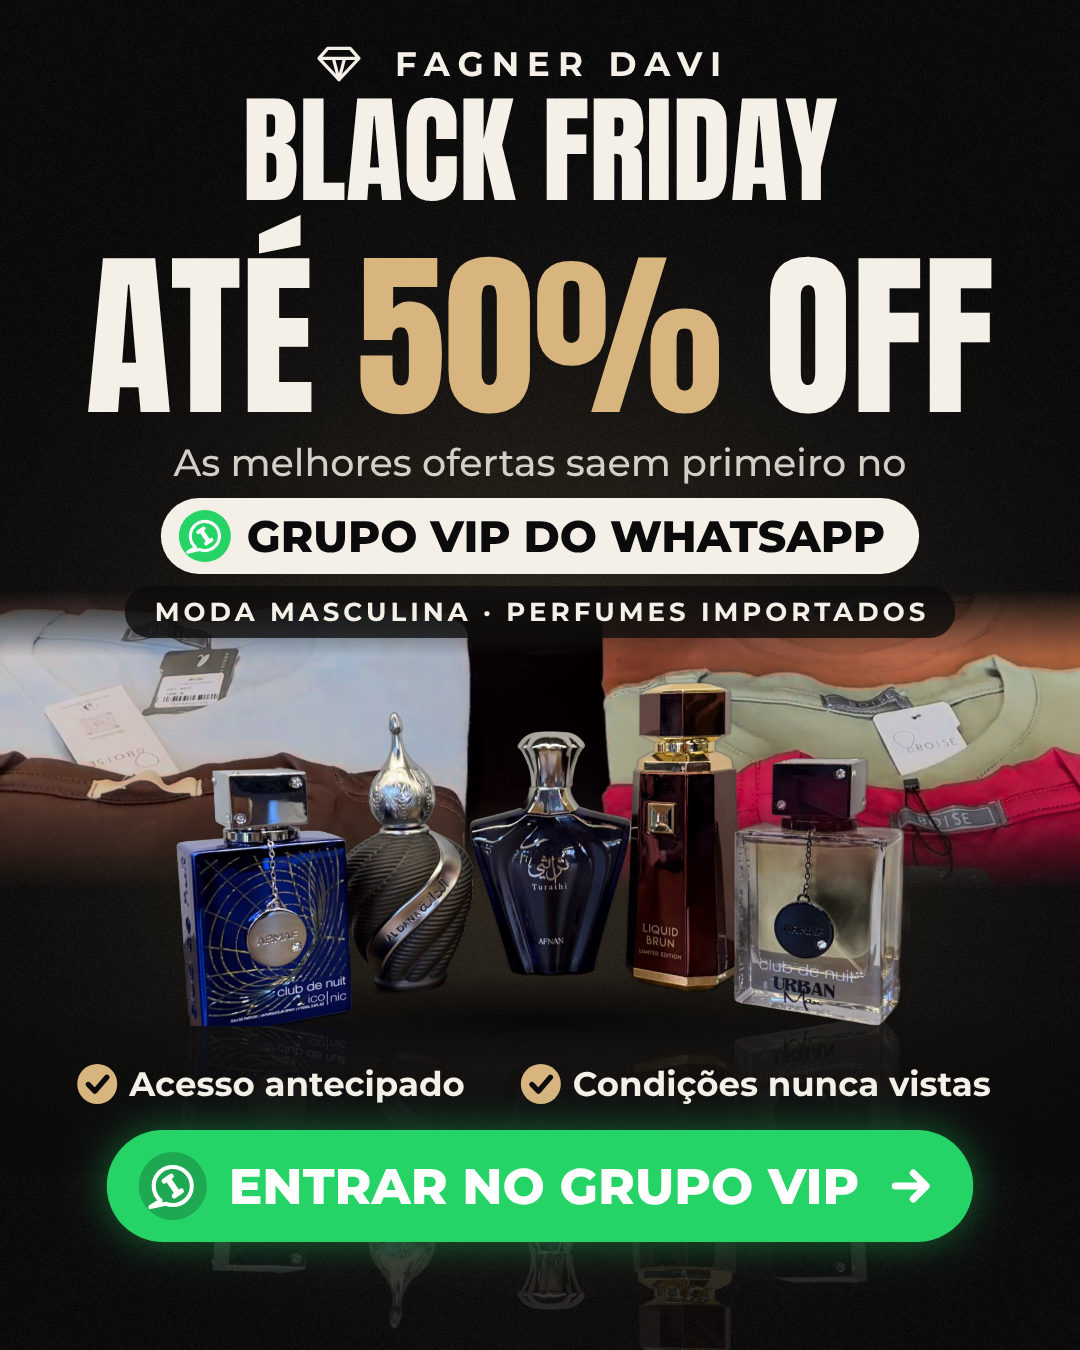
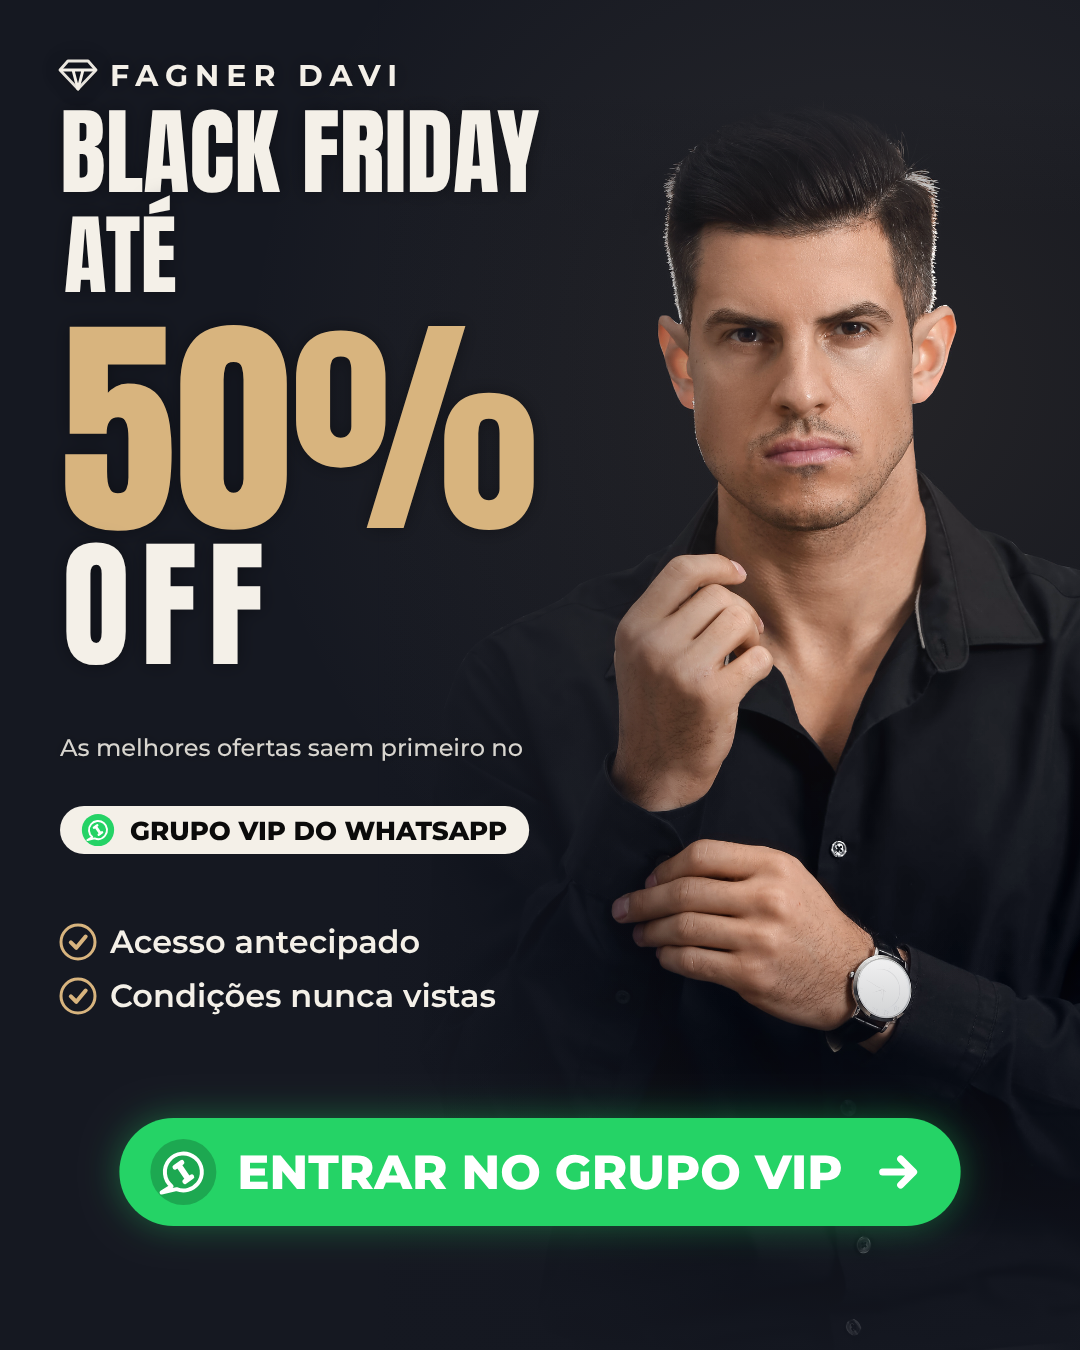
Fagner Davi statics: replace product photos with an Adobe Stock model shot
The product cut-outs didn't land, so the statics now pair a typographic
column (BLACK FRIDAY / ATÉ 50% OFF / Grupo VIP do WhatsApp) with a free
Adobe Stock portrait (482748750) on the photo's own navy-black backdrop.
Story copy and CTA stay inside the 270px top / 380px bottom safe area.

Claude-Session: https://claude.ai/code/session_01AyZZy3A3dWJLr1xUPXjTqW

diff --git a/fagner-davi/static.html b/fagner-davi/static.html
@@ -13,32 +13,35 @@ html, body { margin: 0; background: #000; } canvas { display: block; }
 <canvas id="c"></canvas>
 <script>
 // Static ads for the Grupo VIP Black Friday capture — feed 4:5 (1080x1350) and story 9:16 (1080x1920).
-// Palette follows the brand's own Black Friday warm-up post ("ESQUENTA": black & white, condensed type) plus the
-// sand tone of the store's BOISE tees. Products are real: BOISE tees from the store table, imported perfumes from the feed.
+// Typographic column on the left, model on the right (Adobe Stock 482748750, free licence). The canvas uses the photo's
+// own backdrop colour so the picture dissolves into the layout; type follows the brand's Black Friday warm-up post
+// (condensed, off-white) with a sand accent.
 // ?fmt=feed|story   &guides=1 draws the safe zones (review only, never for upload)
 const q = new URLSearchParams(location.search);
 const FMT = q.get('fmt') || 'feed', GUIDES = q.get('guides') === '1';
 const W = 1080, H = FMT === 'story' ? 1920 : 1350;
 const c = document.getElementById('c'); c.width = W; c.height = H;
 const ctx = c.getContext('2d');
-const BLK = '#0B0B0B', OFF = '#F4F0E8', SAND = '#D8B47E', WA = '#25D366';
+const BG = '#151821', OFF = '#F4F0E8', SAND = '#D8B47E', WA = '#25D366';
 // story: Meta keeps ~14% top / ~20% bottom under the profile row and the CTA; feed: plain margins
 const SAFE = FMT === 'story' ? { top: 270, bottom: 1920 - 380, side: 64 } : { top: 56, bottom: 1350 - 56, side: 60 };
+const X0 = SAFE.side, COL = FMT === 'story' ? 470 : 480;   // left text column
 
-// baselines / centers in px; band = [top, height], perf = [top, width]
+// photo: [top, height, face-centre x]; type baselines in px
 const L = FMT === 'story' ? {
-  brand: 318, black: 470, blackPx: 150, off: 690, offPx: 240, sub: 790,
-  band: [895, 330], perf: [950, 800], tag: 925, checks: 1410, cta: 1484,
+  photo: [330, 1590, 800], brand: 322, black: 438, blackPx: 104,
+  ate: 548, ateMax: 100, pct: 806, pctPx: 290, off: 952, offPx: 160,
+  sub: 1048, pill: 1142, checks: [1252, 1308], cta: 1464,
 } : {
-  brand: 76, black: 200, blackPx: 118, off: 412, offPx: 184, sub: 476,
-  band: [590, 300], perf: [645, 740], tag: 612, checks: 1084, cta: 1186,
+  photo: [96, 1290, 800], brand: 86, black: 192, blackPx: 96,
+  ate: 292, ateMax: 88, pct: 528, pctPx: 266, off: 664, offPx: 140,
+  sub: 756, pill: 830, checks: [942, 996], cta: 1172,
 };
 
 const load = src => new Promise((res, rej) => { const i = new Image(); i.onload = () => res(i); i.onerror = rej; i.src = src; });
-
 function font(w, px, fam = 'Montserrat') { ctx.font = `${w} ${px}px ${fam}`; }
 function box(x, y, w, h, r, fill) { ctx.fillStyle = fill; ctx.beginPath(); ctx.roundRect(x, y, w, h, r); ctx.fill(); }
-function fitText(txt, maxW, px, w, fam) { font(w, px, fam); const m = ctx.measureText(txt).width; return m > maxW ? Math.floor(px * maxW / m) : px; }
+function fit(txt, maxW, px, w, fam) { font(w, px, fam); const m = ctx.measureText(txt).width; if (m > maxW) { px = Math.floor(px * maxW / m); font(w, px, fam); } return px; }
 function diamond(cx, cy, w, col) {
   const h = w * 0.78;
   ctx.save(); ctx.strokeStyle = col; ctx.lineWidth = w * 0.08; ctx.lineJoin = 'round';
@@ -61,117 +64,86 @@ function waIcon(cx, cy, r, bg) {
   ctx.restore(); ctx.restore();
 }
 function check(cx, cy, r) {
-  ctx.fillStyle = SAND; ctx.beginPath(); ctx.arc(cx, cy, r, 0, Math.PI * 2); ctx.fill();
-  ctx.strokeStyle = BLK; ctx.lineWidth = r * 0.26; ctx.lineCap = 'round'; ctx.lineJoin = 'round';
-  ctx.beginPath(); ctx.moveTo(cx - r * 0.45, cy + r * 0.02); ctx.lineTo(cx - r * 0.12, cy + r * 0.36); ctx.lineTo(cx + r * 0.48, cy - r * 0.34); ctx.stroke();
+  ctx.strokeStyle = SAND; ctx.lineWidth = 3; ctx.beginPath(); ctx.arc(cx, cy, r, 0, Math.PI * 2); ctx.stroke();
+  ctx.lineWidth = r * 0.24; ctx.lineCap = 'round'; ctx.lineJoin = 'round';
+  ctx.beginPath(); ctx.moveTo(cx - r * 0.42, cy + r * 0.02); ctx.lineTo(cx - r * 0.1, cy + r * 0.34); ctx.lineTo(cx + r * 0.45, cy - r * 0.32); ctx.stroke();
 }
 
-function background() {
-  ctx.fillStyle = BLK; ctx.fillRect(0, 0, W, H);
-  // soft spotlight behind the products
-  const cy = L.perf[0] + 120;
-  const g = ctx.createRadialGradient(W / 2, cy, 40, W / 2, cy, 760);
-  g.addColorStop(0, 'rgba(216,180,126,0.20)'); g.addColorStop(0.5, 'rgba(216,180,126,0.06)'); g.addColorStop(1, 'rgba(0,0,0,0)');
-  ctx.fillStyle = g; ctx.fillRect(0, 0, W, H);
-  // fine film grain so the black doesn't band
-  const img = ctx.getImageData(0, 0, W, H), d = img.data;
-  let s = 7; const rnd = () => (s = (s * 16807) % 2147483647) / 2147483647;
-  for (let i = 0; i < d.length; i += 4) { const n = (rnd() - 0.5) * 10; d[i] += n; d[i + 1] += n; d[i + 2] += n; }
-  ctx.putImageData(img, 0, 0);
+function backgroundAndPhoto(photo) {
+  ctx.fillStyle = BG; ctx.fillRect(0, 0, W, H);
+  const [top, ph, faceX] = L.photo;
+  const pw = ph * photo.width / photo.height;
+  const x = faceX - pw * 0.49;
+  ctx.filter = 'contrast(1.04) saturate(0.92)';
+  ctx.drawImage(photo, x, top, pw, ph);
+  ctx.filter = 'none';
+  // dissolve the photo edges into the backdrop: top, left (under the type) and bottom
+  let g = ctx.createLinearGradient(0, top, 0, top + 120);
+  g.addColorStop(0, BG); g.addColorStop(1, 'rgba(21,24,33,0)');
+  ctx.fillStyle = g; ctx.fillRect(0, top - 2, W, 122);
+  g = ctx.createLinearGradient(x, 0, x + pw * 0.42, 0);
+  g.addColorStop(0, BG); g.addColorStop(0.55, 'rgba(21,24,33,0.55)'); g.addColorStop(1, 'rgba(21,24,33,0)');
+  ctx.fillStyle = g; ctx.fillRect(0, 0, x + pw * 0.42, H);
+  ctx.fillStyle = BG; ctx.fillRect(0, 0, Math.max(0, x), H);
+  g = ctx.createLinearGradient(0, H - 420, 0, H);
+  g.addColorStop(0, 'rgba(21,24,33,0)'); g.addColorStop(1, 'rgba(21,24,33,0.92)');
+  ctx.fillStyle = g; ctx.fillRect(0, H - 420, W, 420);
+  // a warm rim of light behind the model
+  g = ctx.createRadialGradient(faceX + 60, top + ph * 0.22, 20, faceX + 60, top + ph * 0.22, 620);
+  g.addColorStop(0, 'rgba(216,180,126,0.10)'); g.addColorStop(1, 'rgba(216,180,126,0)');
+  ctx.globalCompositeOperation = 'screen'; ctx.fillStyle = g; ctx.fillRect(0, 0, W, H); ctx.globalCompositeOperation = 'source-over';
 }
 
-function headline() {
-  ctx.textAlign = 'center'; ctx.textBaseline = 'alphabetic';
+function typeColumn() {
+  ctx.textAlign = 'left'; ctx.textBaseline = 'alphabetic';
+  ctx.shadowColor = 'rgba(0,0,0,0.35)'; ctx.shadowBlur = 18;
   // brand
-  font(700, 34); ctx.letterSpacing = '8px';
-  const bw = ctx.measureText('FAGNER DAVI').width;
-  diamond(W / 2 - bw / 2 - 34, L.brand - 12, 40, OFF);
-  ctx.fillStyle = OFF; ctx.fillText('FAGNER DAVI', W / 2 + 22, L.brand);
+  font(700, 30); ctx.letterSpacing = '7px';
+  diamond(X0 + 18, L.brand - 11, 36, OFF);
+  ctx.fillStyle = OFF; ctx.fillText('FAGNER DAVI', X0 + 50, L.brand);
   ctx.letterSpacing = '0px';
   // BLACK FRIDAY
-  let px = fitText('BLACK FRIDAY', W - 2 * SAFE.side, L.blackPx, 400, 'Anton');
-  font(400, px, 'Anton'); ctx.fillStyle = OFF; ctx.fillText('BLACK FRIDAY', W / 2, L.black);
-  // ATÉ 50% OFF — "50%" in sand
-  const a = 'ATÉ ', b = '50%', o = ' OFF';
-  px = L.offPx; font(400, px, 'Anton');
-  let tw = ctx.measureText(a + b + o).width;
-  const maxW = (W - 2 * SAFE.side) * 0.95;
-  if (tw > maxW) { px = Math.floor(px * maxW / tw); font(400, px, 'Anton'); tw = ctx.measureText(a + b + o).width; }
-  let x = W / 2 - tw / 2; ctx.textAlign = 'left';
-  ctx.fillStyle = OFF; ctx.fillText(a, x, L.off); x += ctx.measureText(a).width;
-  ctx.fillStyle = SAND; ctx.fillText(b, x, L.off); x += ctx.measureText(b).width;
-  ctx.fillStyle = OFF; ctx.fillText(o, x, L.off);
-  // explanation line: what it is and where
-  ctx.textAlign = 'center';
-  const s1 = 'As melhores ofertas saem primeiro no', s2 = 'GRUPO VIP DO WHATSAPP';
-  font(500, 38); ctx.fillStyle = 'rgba(244,240,232,0.85)'; ctx.fillText(s1, W / 2, L.sub);
-  font(800, 44); const w2 = ctx.measureText(s2).width + 120;
-  box(W / 2 - w2 / 2, L.sub + 22, w2, 76, 38, OFF);
-  waIcon(W / 2 - w2 / 2 + 44, L.sub + 60, 26, WA);
-  ctx.fillStyle = BLK; ctx.fillText(s2, W / 2 + 26, L.sub + 76);
-}
-
-function products(tees, perf) {
-  // BOISE tees band: full-bleed photo strip, faded into the black at the edges
-  const [by, bh] = L.band;
-  const sw = tees.width, sh = Math.round(sw * bh / W);
-  const sy = Math.round((tees.height - sh) * 0.35);
-  const off = document.createElement('canvas'); off.width = W; off.height = bh;
-  const o = off.getContext('2d');
-  o.filter = 'saturate(0.9) brightness(0.82)';
-  o.drawImage(tees, 0, sy, sw, sh, 0, 0, W, bh);
-  o.filter = 'none'; o.globalCompositeOperation = 'destination-in';
-  let g = o.createLinearGradient(0, 0, 0, bh);
-  g.addColorStop(0, 'rgba(0,0,0,0)'); g.addColorStop(0.22, 'rgba(0,0,0,1)'); g.addColorStop(0.7, 'rgba(0,0,0,1)'); g.addColorStop(1, 'rgba(0,0,0,0)');
-  o.fillStyle = g; o.fillRect(0, 0, W, bh);
-  ctx.drawImage(off, 0, by);
-  // perfumes in front, grounded with a contact shadow and a faint reflection
-  const [py, pw] = L.perf;
-  const ph = pw * perf.height / perf.width, px = (W - pw) / 2;
-  const floor = py + ph * 0.985;
-  ctx.save();
-  const sg = ctx.createRadialGradient(W / 2, floor, 10, W / 2, floor, pw * 0.55);
-  sg.addColorStop(0, 'rgba(0,0,0,0.75)'); sg.addColorStop(1, 'rgba(0,0,0,0)');
-  ctx.translate(0, floor); ctx.scale(1, 0.12); ctx.translate(0, -floor);
-  ctx.fillStyle = sg; ctx.fillRect(0, floor - pw, W, pw * 2);
-  ctx.restore();
-  ctx.save(); ctx.globalAlpha = 0.16; ctx.translate(0, floor * 2); ctx.scale(1, -1);
-  ctx.drawImage(perf, px, py, pw, ph); ctx.restore();
-  // fade the reflection out
-  g = ctx.createLinearGradient(0, floor, 0, floor + ph * 0.35);
-  g.addColorStop(0, 'rgba(11,11,11,0.2)'); g.addColorStop(1, 'rgba(11,11,11,1)');
-  ctx.fillStyle = g; ctx.fillRect(0, floor, W, ph * 0.4);
-  ctx.drawImage(perf, px, py, pw, ph);
-  // category tag (what the store sells)
-  font(700, 26); ctx.letterSpacing = '4px';
-  const t = 'MODA MASCULINA · PERFUMES IMPORTADOS';
-  const tw = ctx.measureText(t).width + 56;
-  box(W / 2 - tw / 2, L.tag - 26, tw, 52, 26, 'rgba(11,11,11,0.78)');
-  ctx.fillStyle = OFF; ctx.textAlign = 'center'; ctx.textBaseline = 'middle'; ctx.fillText(t, W / 2 + 2, L.tag + 1);
-  ctx.letterSpacing = '0px'; ctx.textBaseline = 'alphabetic';
-}
-
-function checksAndCta() {
-  ctx.textBaseline = 'middle';
-  const items = ['Acesso antecipado', 'Condições nunca vistas'];
-  font(700, 34);
-  const ws = items.map(s => ctx.measureText(s).width + 64);
-  const gap = 44, total = ws.reduce((a, b) => a + b) + gap;
-  let x = W / 2 - total / 2;
-  items.forEach((s, i) => {
-    check(x + 20, L.checks, 20);
-    ctx.fillStyle = OFF; ctx.textAlign = 'left'; ctx.fillText(s, x + 52, L.checks + 2);
-    x += ws[i] + gap;
+  fit('BLACK FRIDAY', COL, L.blackPx, 400, 'Anton');
+  ctx.fillStyle = OFF; ctx.fillText('BLACK FRIDAY', X0, L.black);
+  // ATÉ / 50% / OFF — the offer is the biggest thing on the page
+  const pctPx = fit('50%', COL, L.pctPx, 400, 'Anton');
+  const pctW = ctx.measureText('50%').width;
+  fit('ATÉ', pctW, L.ateMax, 400, 'Anton'); ctx.fillStyle = OFF; ctx.fillText('ATÉ', X0 + 4, L.ate);
+  font(400, pctPx, 'Anton'); ctx.fillStyle = SAND; ctx.fillText('50%', X0, L.pct);
+  font(400, L.offPx, 'Anton'); ctx.letterSpacing = `${Math.round(L.offPx * 0.08)}px`;
+  ctx.fillStyle = OFF; ctx.fillText('OFF', X0 + 2, L.off); ctx.letterSpacing = '0px';
+  // what & where
+  ctx.shadowBlur = 10;
+  ctx.fillStyle = 'rgba(244,240,232,0.88)';
+  if (FMT === 'story') {   // two larger lines read better on a phone held at arm's length
+    font(500, 38); ctx.fillText('As melhores ofertas', X0, L.sub - 22); ctx.fillText('saem primeiro no', X0, L.sub + 24);
+  } else {
+    fit('As melhores ofertas saem primeiro no', COL, 32, 500); ctx.fillText('As melhores ofertas saem primeiro no', X0, L.sub);
+  }
+  ctx.shadowColor = 'transparent';
+  const pillTxt = 'GRUPO VIP DO WHATSAPP';
+  const px = fit(pillTxt, COL - 92, 38, 800);
+  const pw = ctx.measureText(pillTxt).width + 92, phh = Math.round(px * 1.85);
+  box(X0, L.pill - phh / 2, pw, phh, phh / 2, OFF);
+  waIcon(X0 + 38, L.pill, px * 0.62, WA);
+  ctx.fillStyle = '#0B0B0B'; ctx.textBaseline = 'middle'; ctx.fillText(pillTxt, X0 + 70, L.pill + 2);
+  // benefits
+  ['Acesso antecipado', 'Condições nunca vistas'].forEach((s, i) => {
+    check(X0 + 18, L.checks[i], 17);
+    font(600, 32); ctx.fillStyle = OFF; ctx.fillText(s, X0 + 50, L.checks[i] + 2);
   });
-  // CTA
-  font(800, 50); const label = 'ENTRAR NO GRUPO VIP';
-  const bw = ctx.measureText(label).width + 236, bh = 112;
-  ctx.save(); ctx.shadowColor = 'rgba(37,211,102,0.45)'; ctx.shadowBlur = 40;
-  box(W / 2 - bw / 2, L.cta - bh / 2, bw, bh, bh / 2, WA); ctx.restore();
-  waIcon(W / 2 - bw / 2 + 66, L.cta, 34, '#1DA851');
-  ctx.fillStyle = '#fff'; ctx.textAlign = 'left'; ctx.fillText(label, W / 2 - bw / 2 + 122, L.cta + 3);
-  // arrow
-  const ax = W / 2 + bw / 2 - 62, ay = L.cta;
+  ctx.textBaseline = 'alphabetic';
+}
+
+function cta() {
+  ctx.textBaseline = 'middle';
+  font(800, 48); const label = 'ENTRAR NO GRUPO VIP';
+  const bw = ctx.measureText(label).width + 236, bh = 108, bx = W / 2 - bw / 2;
+  ctx.save(); ctx.shadowColor = 'rgba(37,211,102,0.4)'; ctx.shadowBlur = 36;
+  box(bx, L.cta - bh / 2, bw, bh, bh / 2, WA); ctx.restore();
+  waIcon(bx + 64, L.cta, 33, '#1DA851');
+  ctx.fillStyle = '#fff'; ctx.textAlign = 'left'; ctx.fillText(label, bx + 118, L.cta + 3);
+  const ax = bx + bw - 62, ay = L.cta;
   ctx.strokeStyle = '#fff'; ctx.lineWidth = 7; ctx.lineCap = 'round'; ctx.lineJoin = 'round';
   ctx.beginPath(); ctx.moveTo(ax - 16, ay); ctx.lineTo(ax + 14, ay); ctx.moveTo(ax + 2, ay - 13); ctx.lineTo(ax + 15, ay); ctx.lineTo(ax + 2, ay + 13); ctx.stroke();
   ctx.textBaseline = 'alphabetic';
@@ -188,9 +160,10 @@ function guides() {
 }
 
 window.ready = (async () => {
-  await document.fonts.load('400 100px Anton'); await document.fonts.load('800 40px Montserrat'); await document.fonts.load('500 40px Montserrat');
-  const [tees, perf] = await Promise.all([load('static/cut/shirts_crop.png'), load('static/cut/perfumes_cut.png')]);
-  background(); products(tees, perf); headline(); checksAndCta();
+  await document.fonts.load('400 100px Anton'); await document.fonts.load('800 40px Montserrat');
+  await document.fonts.load('600 40px Montserrat'); await document.fonts.load('500 40px Montserrat');
+  const photo = await load('static/stock/AdobeStock_482748750.jpeg');
+  backgroundAndPhoto(photo); typeColumn(); cta();
   if (GUIDES) guides();
 })();
 </script>
